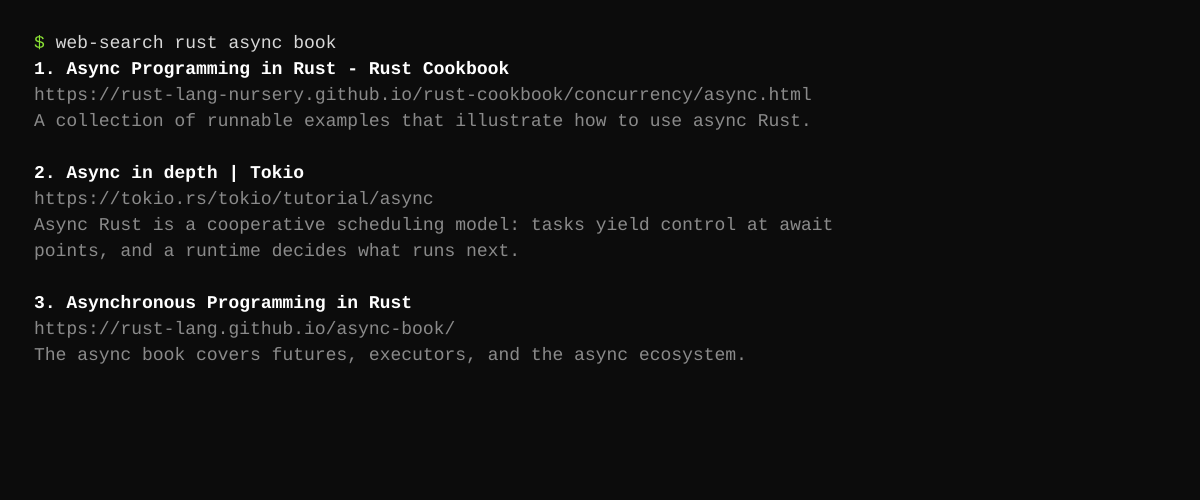
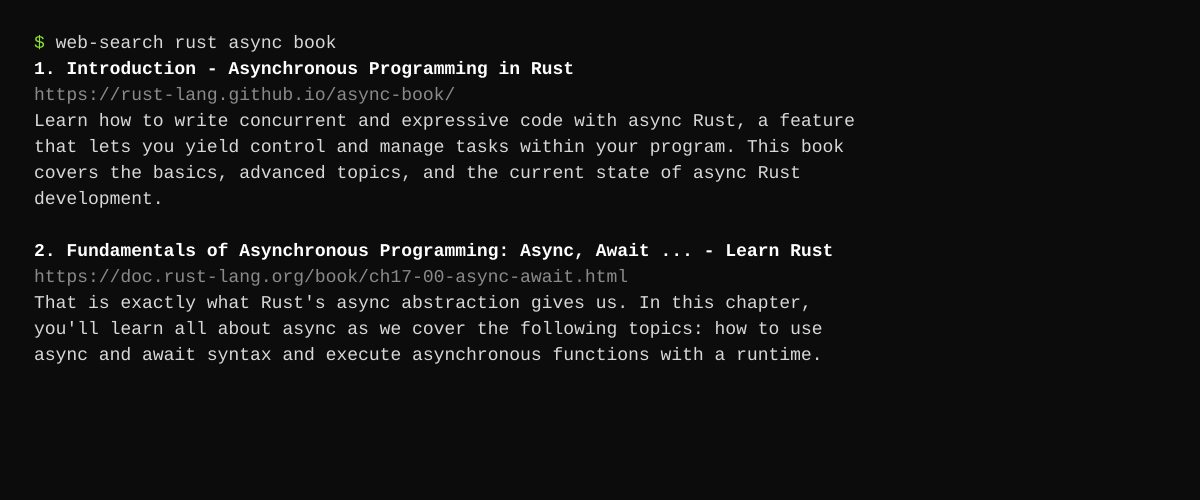
Rewrite README prose and refresh preview

diff --git a/README.md b/README.md
@@ -4,7 +4,7 @@ A Rust CLI to search the web
 
 ![web-search in a terminal](preview.png)
 
-## Why it exists
+## Why this exists
 
 Search results live in a browser, wrapped in ads and scripts. This tool asks an
 engine, normalizes the answers, and prints titles, URLs, and snippets as plain
@@ -12,20 +12,19 @@ text that pipes into `grep`, `jq`, or a reader.
 
 ## How it works
 
-1. The query comes from the arguments or from piped stdin.
-2. Each engine is fetched over TLS with `ureq` and `rustls`, a request timeout,
-   and an 8 MiB response cap.
-3. DuckDuckGo HTML, Bing RSS, SearXNG JSON, and the Brave API are normalized
-   into one result shape.
-4. Titles and snippets are cleaned and wrapped to `COLUMNS`, or 80 when it is
-   unset.
-5. `--read` fetches the selected page once and extracts article text with
-   `dom_smoothie`. If extraction is too small, it can retry through
-   `r.jina.ai` unless `--no-reader` is set.
+The query comes from the arguments or from piped stdin. Each engine is fetched
+over TLS with `ureq` and `rustls`, a request timeout, and an 8 MiB response cap.
+DuckDuckGo HTML, Bing RSS, SearXNG JSON, and the Brave API are normalized into
+one result shape. Titles and snippets are cleaned and wrapped to `COLUMNS`, or
+80 when it is unset.
+
+`--read` fetches the selected page once and extracts article text with
+`dom_smoothie`. If extraction is too small, it can retry through `r.jina.ai`
+unless `--no-reader` is set.
 
 ## Usage
 
-```bash
+```text
 web-search [OPTIONS] <QUERY>...
 
 Options:
@@ -40,34 +39,39 @@ Options:
   -v, --verbose         Print engine and timing to stderr
   -h, --help            Print help
   -V, --version         Print version
+```
 
-Examples:
-  web-search rust async book
-  web-search -n 5 --urls "rust 2024 edition"
-  web-search --json "who invented unix" | jq -r '.[].url'
-  echo "tauri vs egui" | web-search -n 5
-  web-search -r 2 rust async book
-  web-search -r https://example.com/
+Typical calls:
+
+```bash
+web-search rust async book
+web-search -n 5 --urls "rust 2024 edition"
+web-search --json "who invented unix" | jq -r '.[].url'
+echo "tauri vs egui" | web-search -n 5
+web-search -r 2 rust async book
+web-search -r https://example.com/
 ```
 
 ## Notes
 
-- `auto` tries DuckDuckGo, then Brave when `BRAVE_API_KEY` is set, then a
-  SearXNG instance, then Bing. Bing results that share no word with the query
-  are dropped. Use `-v` to see which engine answered.
-- The last result list is cached at `$XDG_CACHE_HOME/web-search/last.json`, so
-  `web-search -r 2` can reopen result 2 of the previous search. Queries are not
-  logged.
-- Exit codes: `0` for a completed search or read, `1` for a failed request, `2`
-  for usage errors.
-- The HTML endpoints are not APIs and can return bot checks or rate limits. Use
-  Brave or your own SearXNG instance for regular use. The default SearXNG
-  instance sees your queries; point `--searx-url` or `SEARX_URL` elsewhere if
-  that matters.
-- TLS is handled by `rustls`. Only the selected engine and result URL are
-  contacted. Response sizes and timeouts are bounded. No credentials, cookies,
-  configuration, or telemetry are read or sent. Unsafe code is forbidden by the
-  package lint configuration.
+`auto` tries DuckDuckGo, then Brave when `BRAVE_API_KEY` is set, then a SearXNG
+instance, then Bing. Bing results that share no word with the query are dropped.
+Use `-v` to see which engine answered.
+
+The last result list is cached at `$XDG_CACHE_HOME/web-search/last.json`, so
+`web-search -r 2` can reopen result 2 of the previous search. Queries are not
+logged. Exit codes are `0` for a completed search or read, `1` for a failed
+request, and `2` for usage errors.
+
+The HTML endpoints are not APIs and can return bot checks or rate limits. Use
+Brave or your own SearXNG instance for regular use. The default SearXNG
+instance sees your queries; point `--searx-url` or `SEARX_URL` elsewhere if
+that matters.
+
+TLS is handled by `rustls`. Only the selected engine and result URL are
+contacted. Response sizes and timeouts are bounded. No credentials, cookies,
+configuration, or telemetry are read or sent. Unsafe code is forbidden by the
+package lint configuration.
 
 ## Install
 
